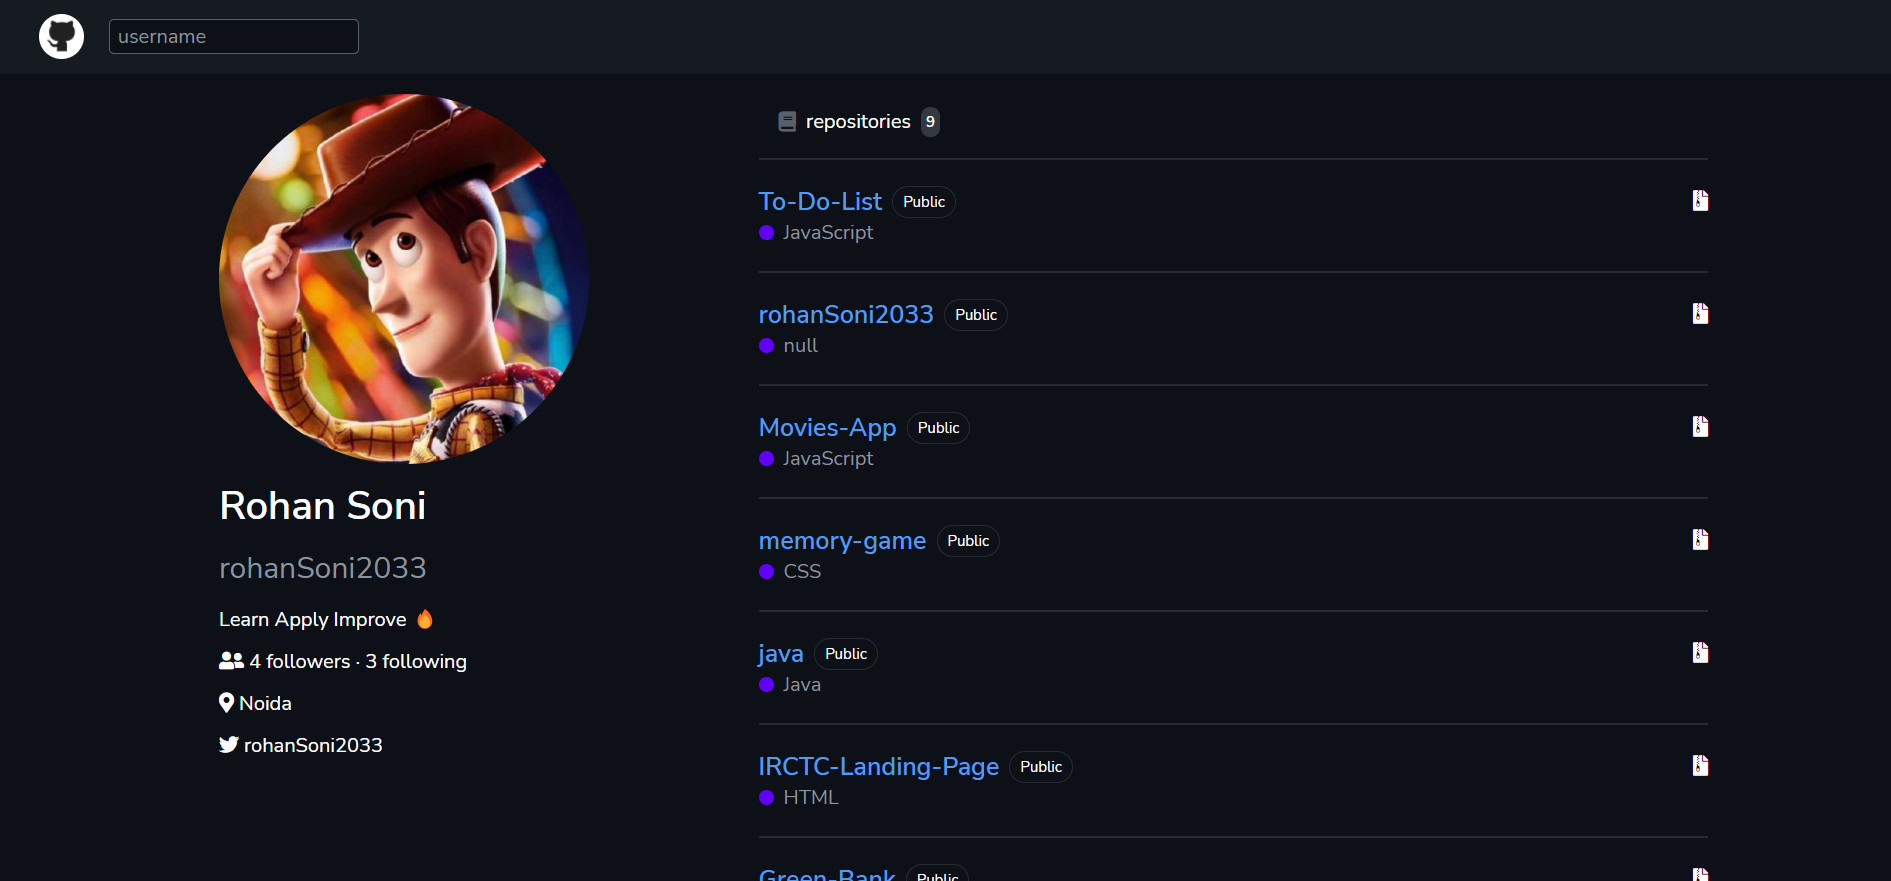
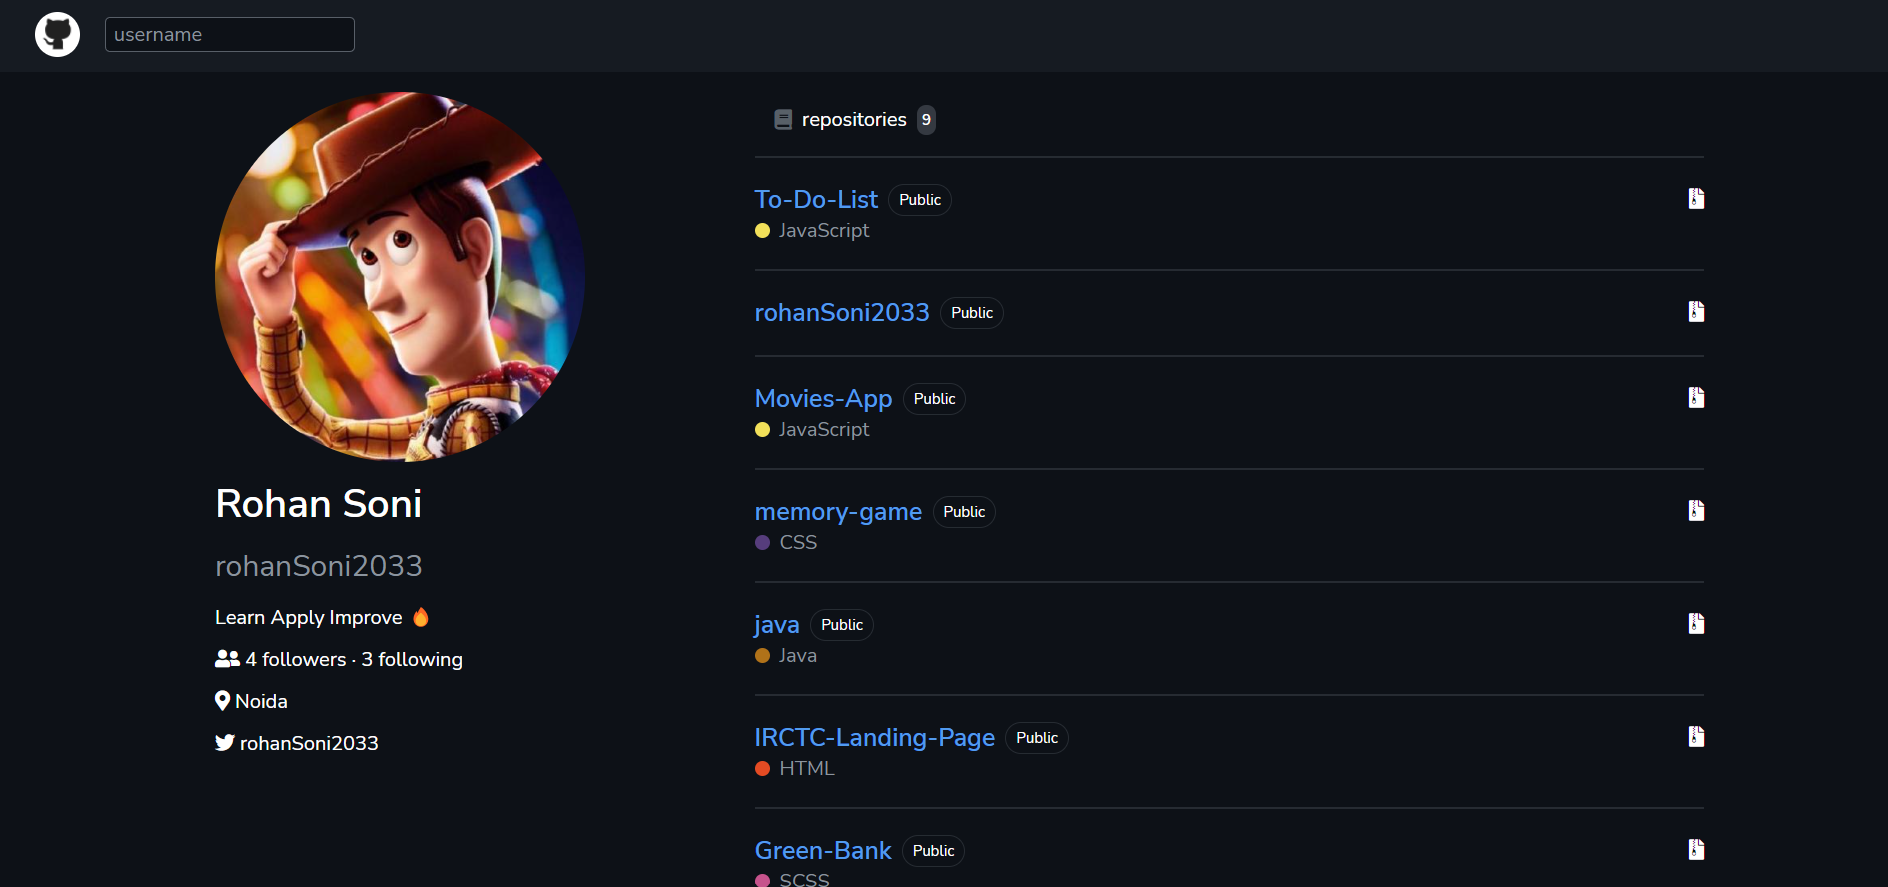
add color.json file and fetch the color of programing language

diff --git a/script.js b/script.js
@@ -22,6 +22,12 @@ const search = async (username) => {
   displayRepos(username);
 };
 
+const getColors = async (programingLanguage) => {
+  const data = await fetch('./color.json');
+  const colors = await data.json();
+  return colors[`${programingLanguage}`];
+};
+
 const displayProfile = (d) => {
   profile.innerHTML = ``;
   const markup = `
@@ -46,28 +52,28 @@ const displayProfile = (d) => {
             </div>
             ${
               d.company
-                ? `<span class="company">
+                ? `<span>
                 <i class="far fa-building"></i> ${d.company}
             </span>`
                 : ''
             }
             ${
               d.blog
-                ? `<a href="${d.blog}" class="blog">
+                ? `<a href="${d.blog}">
                 <i class="fas fa-link"></i> ${d.blog}
             </a>`
                 : ''
             }
             ${
               d.location
-                ? `<span class="location">
+                ? `<span>
                 <i class="fas fa-map-marker-alt"></i> ${d.location}
             </span>`
                 : ''
             }
             ${
               d.email
-                ? `<span class="email">
+                ? `<span>
                 <i class="far fa-envelope"></i> ${d.email}
             </span>`
                 : ''
@@ -75,7 +81,7 @@ const displayProfile = (d) => {
 
             ${
               d.twitter_username
-                ? `<a href="https://twitter.com/${d.twitter_username}" class="twitter_url">
+                ? `<a href="https://twitter.com/${d.twitter_username}">
                 <i class="fab fa-twitter"></i> ${d.twitter_username}
             </a>`
                 : ''
@@ -97,21 +103,12 @@ searchUser();
 const getLink = async () => {
   profile.addEventListener('click', async (e) => {
     if (e.target.closest('.following')) {
-      const following = await fetch(
-        `https://api.github.com/users/${mainUsername}/following`
-      );
-
-      const fl = await following.json();
-      displayLink(fl);
+      const following = await fetch(`${API_URL}${mainUsername}/following`);
+      displayLink(await following.json());
     }
     if (e.target.closest('.followers')) {
-      const followers = await fetch(
-        `https://api.github.com/users/${mainUsername}/followers`
-      );
-
-      const fr = await followers.json();
-
-      displayLink(fr);
+      const followers = await fetch(`${API_URL}${mainUsername}/followers`);
+      displayLink(await followers.json());
     }
   });
 
@@ -150,19 +147,32 @@ const displayRepos = async (username) => {
   const repos = await data.json();
 
   reposCount.textContent = repos.length;
-  repos.forEach((r) => {
+  repos.forEach(async (r) => {
     const markup = `
    <li>
       <div class="repositories">
         <div class="repos_name_container">
-          <a href="https://github.com/${username}/${r.name}" class="repos_name">${r.name}</a>
+          <a href="https://github.com/${username}/${
+      r.name
+    }" class="repos_name">${r.name}</a>
           <span class="repos_visibility">${r.visibility}</span>
         </div>
-          <a href="https://github.com/${username}/${r.name}/archive/refs/heads/master.zip" class="repos_download"><i class="fas fa-file-archive"></i>
+
+          <a href="https://github.com/${username}/${
+      r.name
+    }/archive/refs/heads/master.zip" class="repos_download"><i class="fas fa-file-archive"></i>
           </a>
-          <span class="repos_language">
-            <div class="circle"></div> ${r.language}
-          </span>
+
+          ${
+            r.language
+              ? `<span class="repos_language">
+            <div class="circle" style="background-color:${await getColors(
+              r.language
+            )}"></div> ${r.language}
+          </span>`
+              : ''
+          }
+          
       </div>
     </li>
   `;

diff --git a/style.css b/style.css
@@ -30,44 +30,6 @@ a {
   justify-content: center;
 }
 
-.profile {
-  width: 30%;
-  height: 100%;
-  padding: 16px 24px;
-  display: flex;
-  flex-direction: column;
-  gap: 12px;
-}
-.content {
-  width: 50%;
-  padding: 10px 0;
-}
-
-.content ul {
-  list-style: none;
-}
-
-.avatar {
-  width: 296px;
-  height: 296px;
-  border-radius: 50%;
-  overflow: hidden;
-}
-
-.avatar img {
-  width: 100%;
-}
-
-.name {
-  font-size: 32px;
-  font-weight: 600;
-}
-
-.login {
-  color: #8b949e;
-  font-size: 24px;
-}
-
 .nav {
   background-color: #161b22;
   display: flex;
@@ -111,6 +73,45 @@ a {
   outline: 2px solid #1f6feb;
 }
 
+.profile {
+  width: 30%;
+  height: 100%;
+  padding: 16px 24px;
+  display: flex;
+  flex-direction: column;
+  gap: 12px;
+}
+
+.avatar {
+  width: 296px;
+  height: 296px;
+  border-radius: 50%;
+  overflow: hidden;
+}
+
+.avatar img {
+  width: 100%;
+}
+
+.name {
+  font-size: 32px;
+  font-weight: 600;
+}
+
+.login {
+  color: #8b949e;
+  font-size: 24px;
+}
+
+.content {
+  width: 50%;
+  padding: 10px 0;
+}
+
+.content ul {
+  list-style: none;
+}
+
 .user_container {
   width: 100%;
   gap: 20px;
@@ -127,6 +128,7 @@ a {
   border-radius: 50%;
   overflow: hidden;
 }
+
 .user_avatar img {
   height: 100%;
 }
@@ -154,7 +156,7 @@ a {
 }
 
 .nav_repos:hover {
-  border-bottom: 1px solid red;
+  border-bottom: 1px solid #f78166;
 }
 
 .fa-book {

diff --git a/README.md b/README.md
@@ -12,4 +12,6 @@
 - twitter account
 - all public repositories created by user
 
+### click on zip file icon to download the repositories.
+
 ![GitHub Profile](https://github.com/rohanSoni2033/GitHub-Profile/blob/master/GitHub_Profile.png 'Github Profile')
